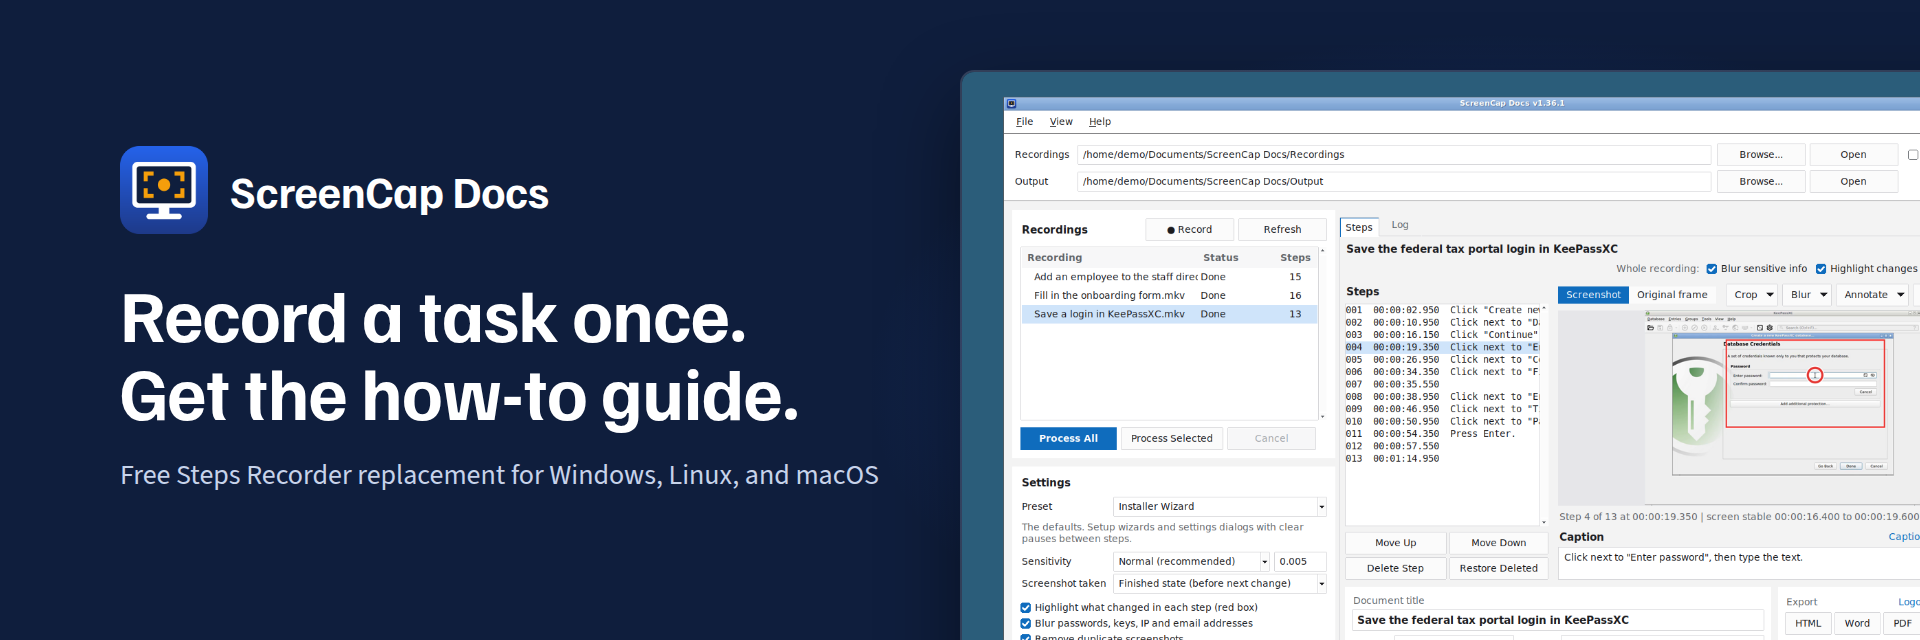
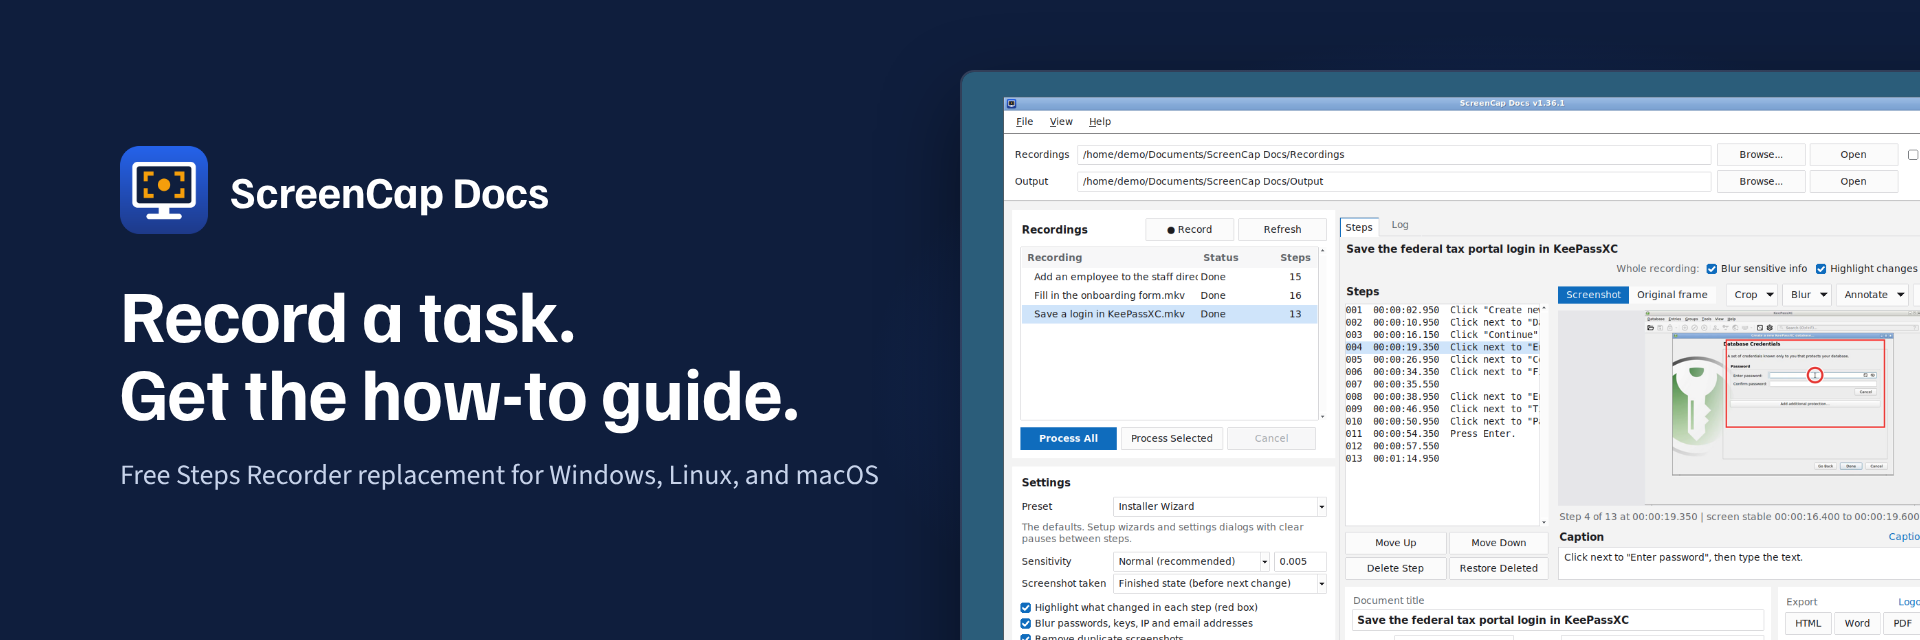
Use the tagline "Record a task. Get the how-to guide."
The approved brand guide (1.2.0) shortens the tagline. Updated in
docs/BRANDING.md, the website's home page, and the Snap Store banner
(banner.html v1.0.1, docs/store/banner.png redrawn).

Claude-Session: https://claude.ai/code/session_01XwbDExy8Q2qFKSU4bC5vmJ

Changed region(s): [[0.0625, 0.7188, 0.4688, 0.7812], [0.125, 0.2812, 0.2812, 0.3438], [0.2812, 0.4688, 0.4062, 0.5312]]

diff --git a/website/pages/index.html b/website/pages/index.html
@@ -1,11 +1,11 @@
 <!--
 title: ScreenCap Docs
-description: A free Steps Recorder replacement for Windows, Linux, and macOS. Record a task once and get a finished how-to guide.
+description: A free Steps Recorder replacement for Windows, Linux, and macOS. Record a task and get a finished how-to guide.
 -->
   <div class="wrap hero">
     <div>
       <p class="eyebrow">Free Steps Recorder replacement</p>
-      <h1>Record a task once. Get the how-to guide.</h1>
+      <h1>Record a task. Get the how-to guide.</h1>
       <p class="lede">Click Record, do the task, click Stop. You get a screenshot of every step with a ring where you clicked, a draft caption for each one, passwords blurred, and a finished HTML, Word, PDF, or PowerPoint document.</p>
       <div class="ctas">
         <a class="btn primary" href="{{root}}download/">Download</a>

diff --git a/packaging/screenshots/banner.html b/packaging/screenshots/banner.html
@@ -1,8 +1,8 @@
 <!doctype html>
 <!--
   banner.html
-  2026-10-30
-  Version: v1.0.0
+  2026-11-04
+  Version: v1.0.1
 
   PURPOSE:
   The Snap Store featured banner (1920 x 640, 3:1), drawn by Chromium in
@@ -32,7 +32,7 @@
   <div class="glow"></div>
   <div class="copy">
     <div class="name"><img src="ICON" alt="">ScreenCap Docs</div>
-    <h1>Record a task once.<br>Get the how-to guide.</h1>
+    <h1>Record a task.<br>Get the how-to guide.</h1>
     <p>Free Steps Recorder replacement for Windows, Linux, and macOS</p>
   </div>
   <div class="shot"><img src="SHOT" alt=""></div>

diff --git a/docs/BRANDING.md b/docs/BRANDING.md
@@ -1,8 +1,8 @@
-BRANDING.md v1.4.0 (Last Rev: 2026-10-30)
+BRANDING.md v1.5.0 (Last Rev: 2026-11-04)
 
 # Branding
 
-The core brand rules for ScreenCap Docs, so the app, installer, README, release notes, website, and store listings stay consistent. The maintainers keep a fuller visual guide (components, tokens, artwork drafts) privately; this file holds everything needed to work in this repository.
+The core brand rules for ScreenCap Docs, so the app, installer, README, release notes, website, and store listings stay consistent. The maintainers keep a fuller visual guide (components, tokens, approved artwork) privately; this file holds everything needed to work in this repository.
 
 ## The name
 
@@ -15,7 +15,7 @@ The core brand rules for ScreenCap Docs, so the app, installer, README, release 
 ## Positioning
 
 - **One line:** A free Steps Recorder replacement for Windows, Linux, and macOS.
-- **Tagline:** Record a task once. Get the how-to guide.
+- **Tagline:** Record a task. Get the how-to guide.
 - **Summary (under 80 characters):** Free Steps Recorder replacement: record a task, get a step-by-step guide
 - **One sentence:** Record a task and get a step-by-step guide: screenshots with click rings, draft captions, auto-blurred secrets, and HTML, Word, PDF, or PowerPoint export.
 
